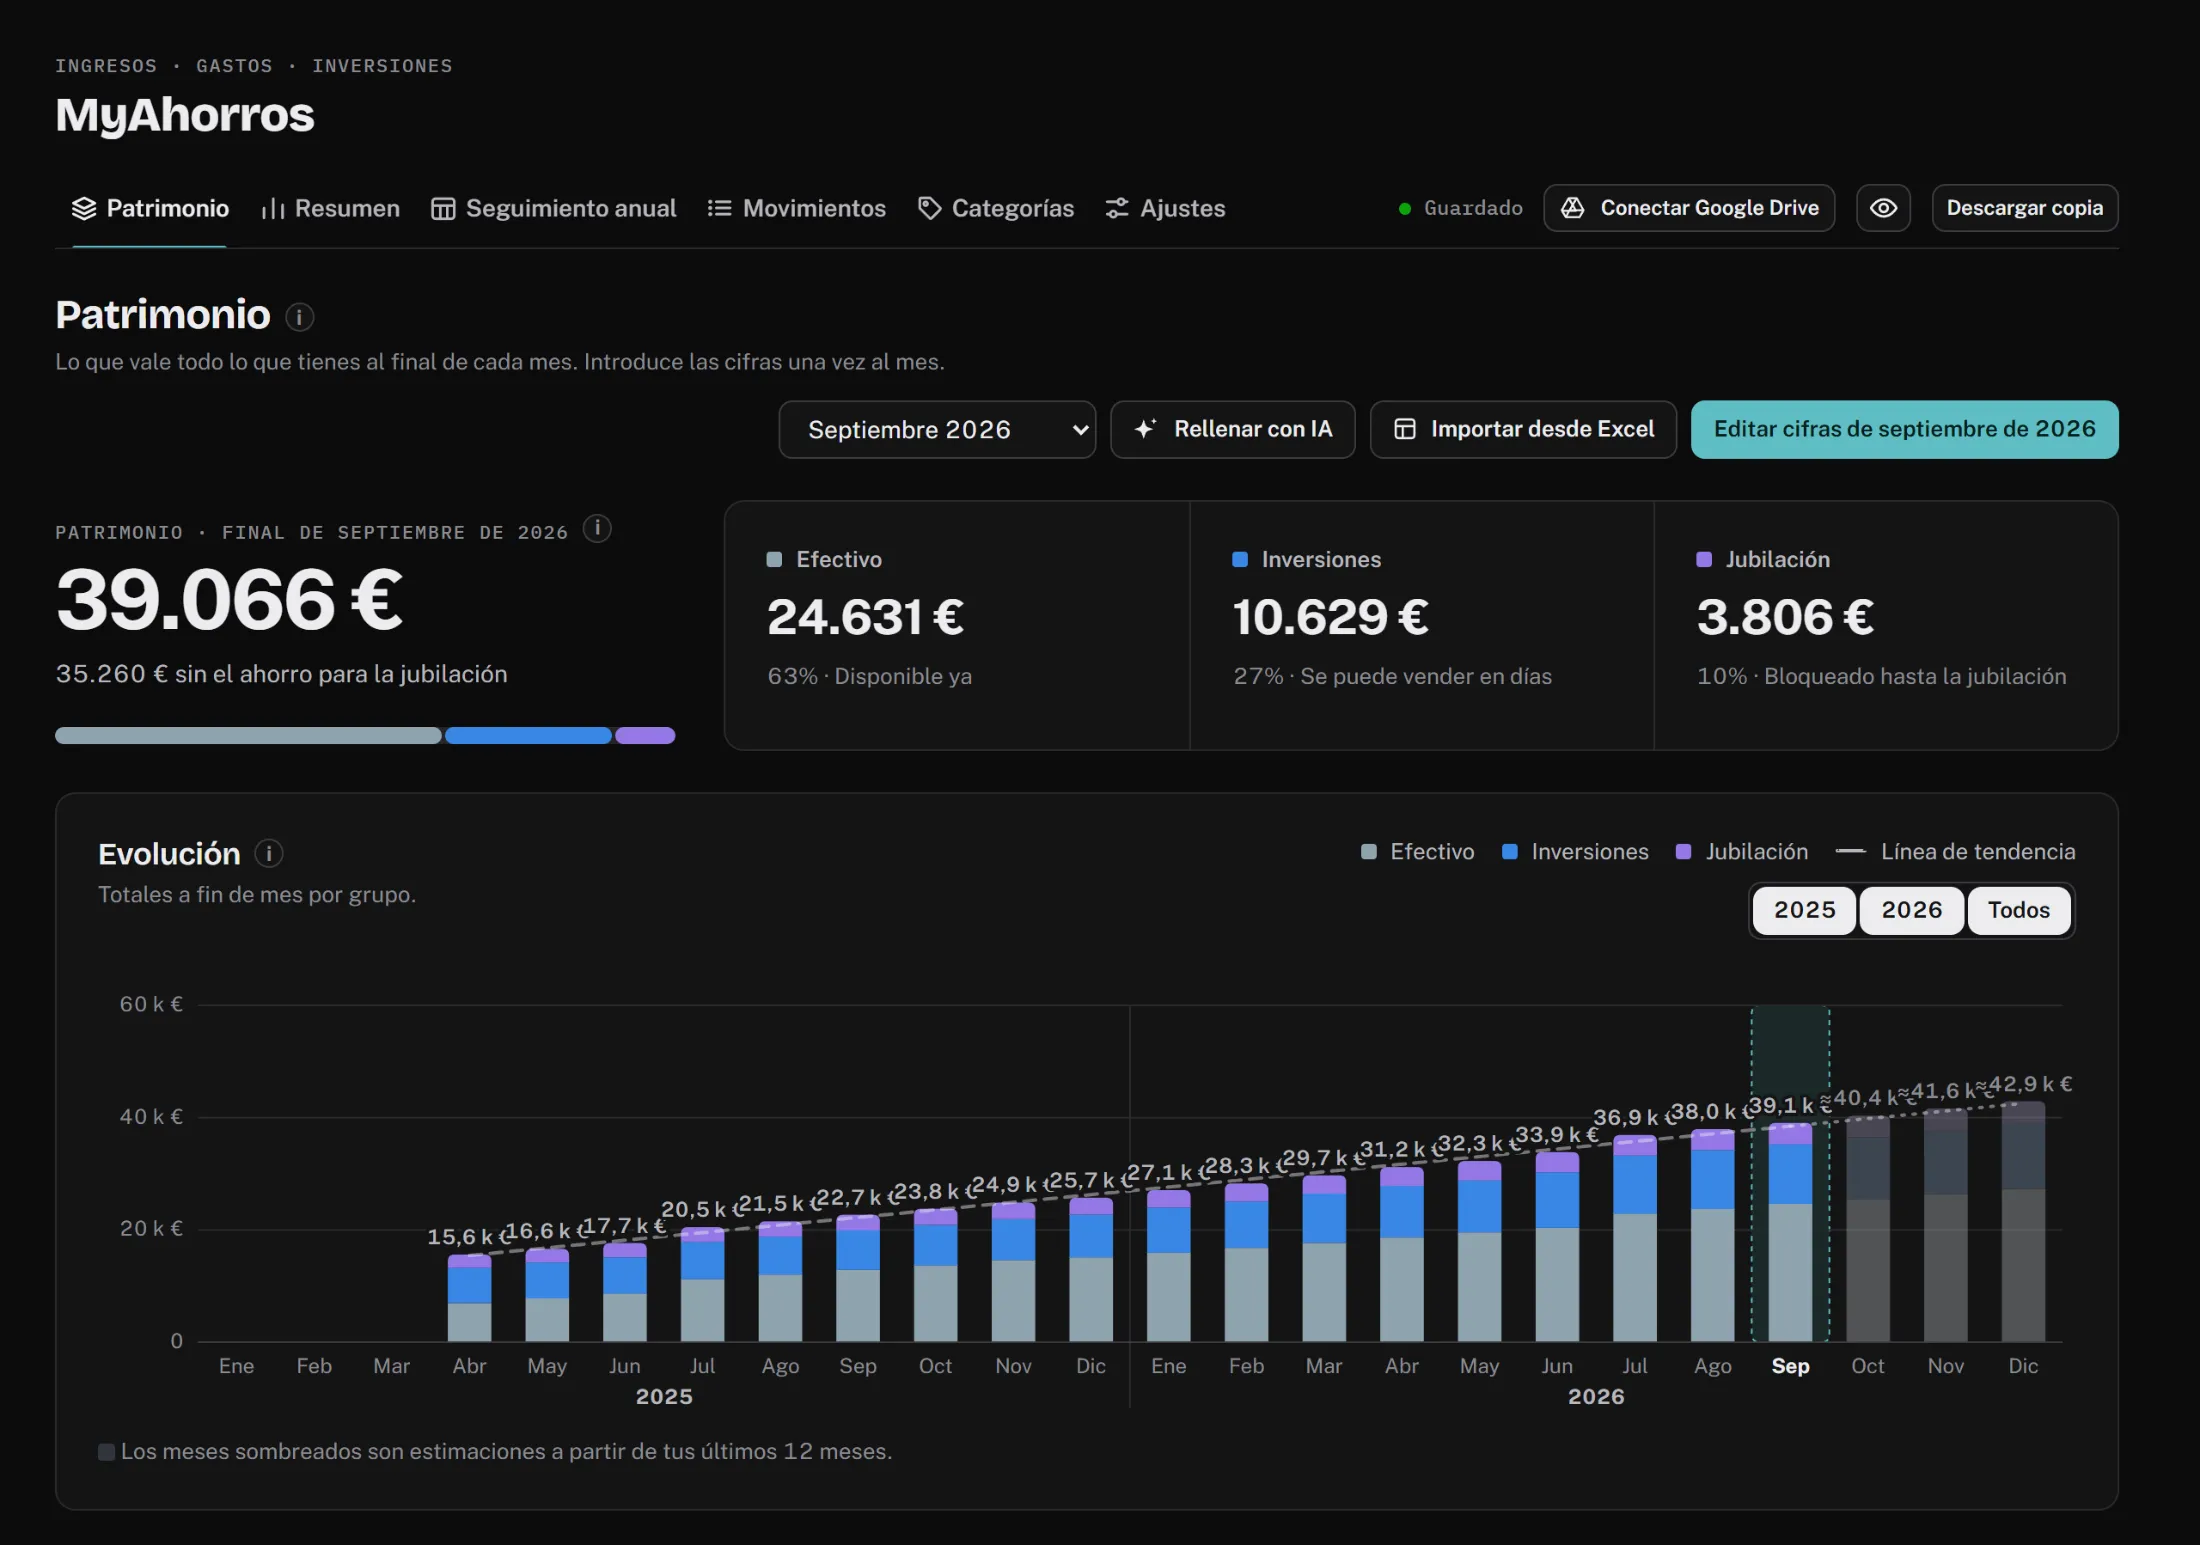
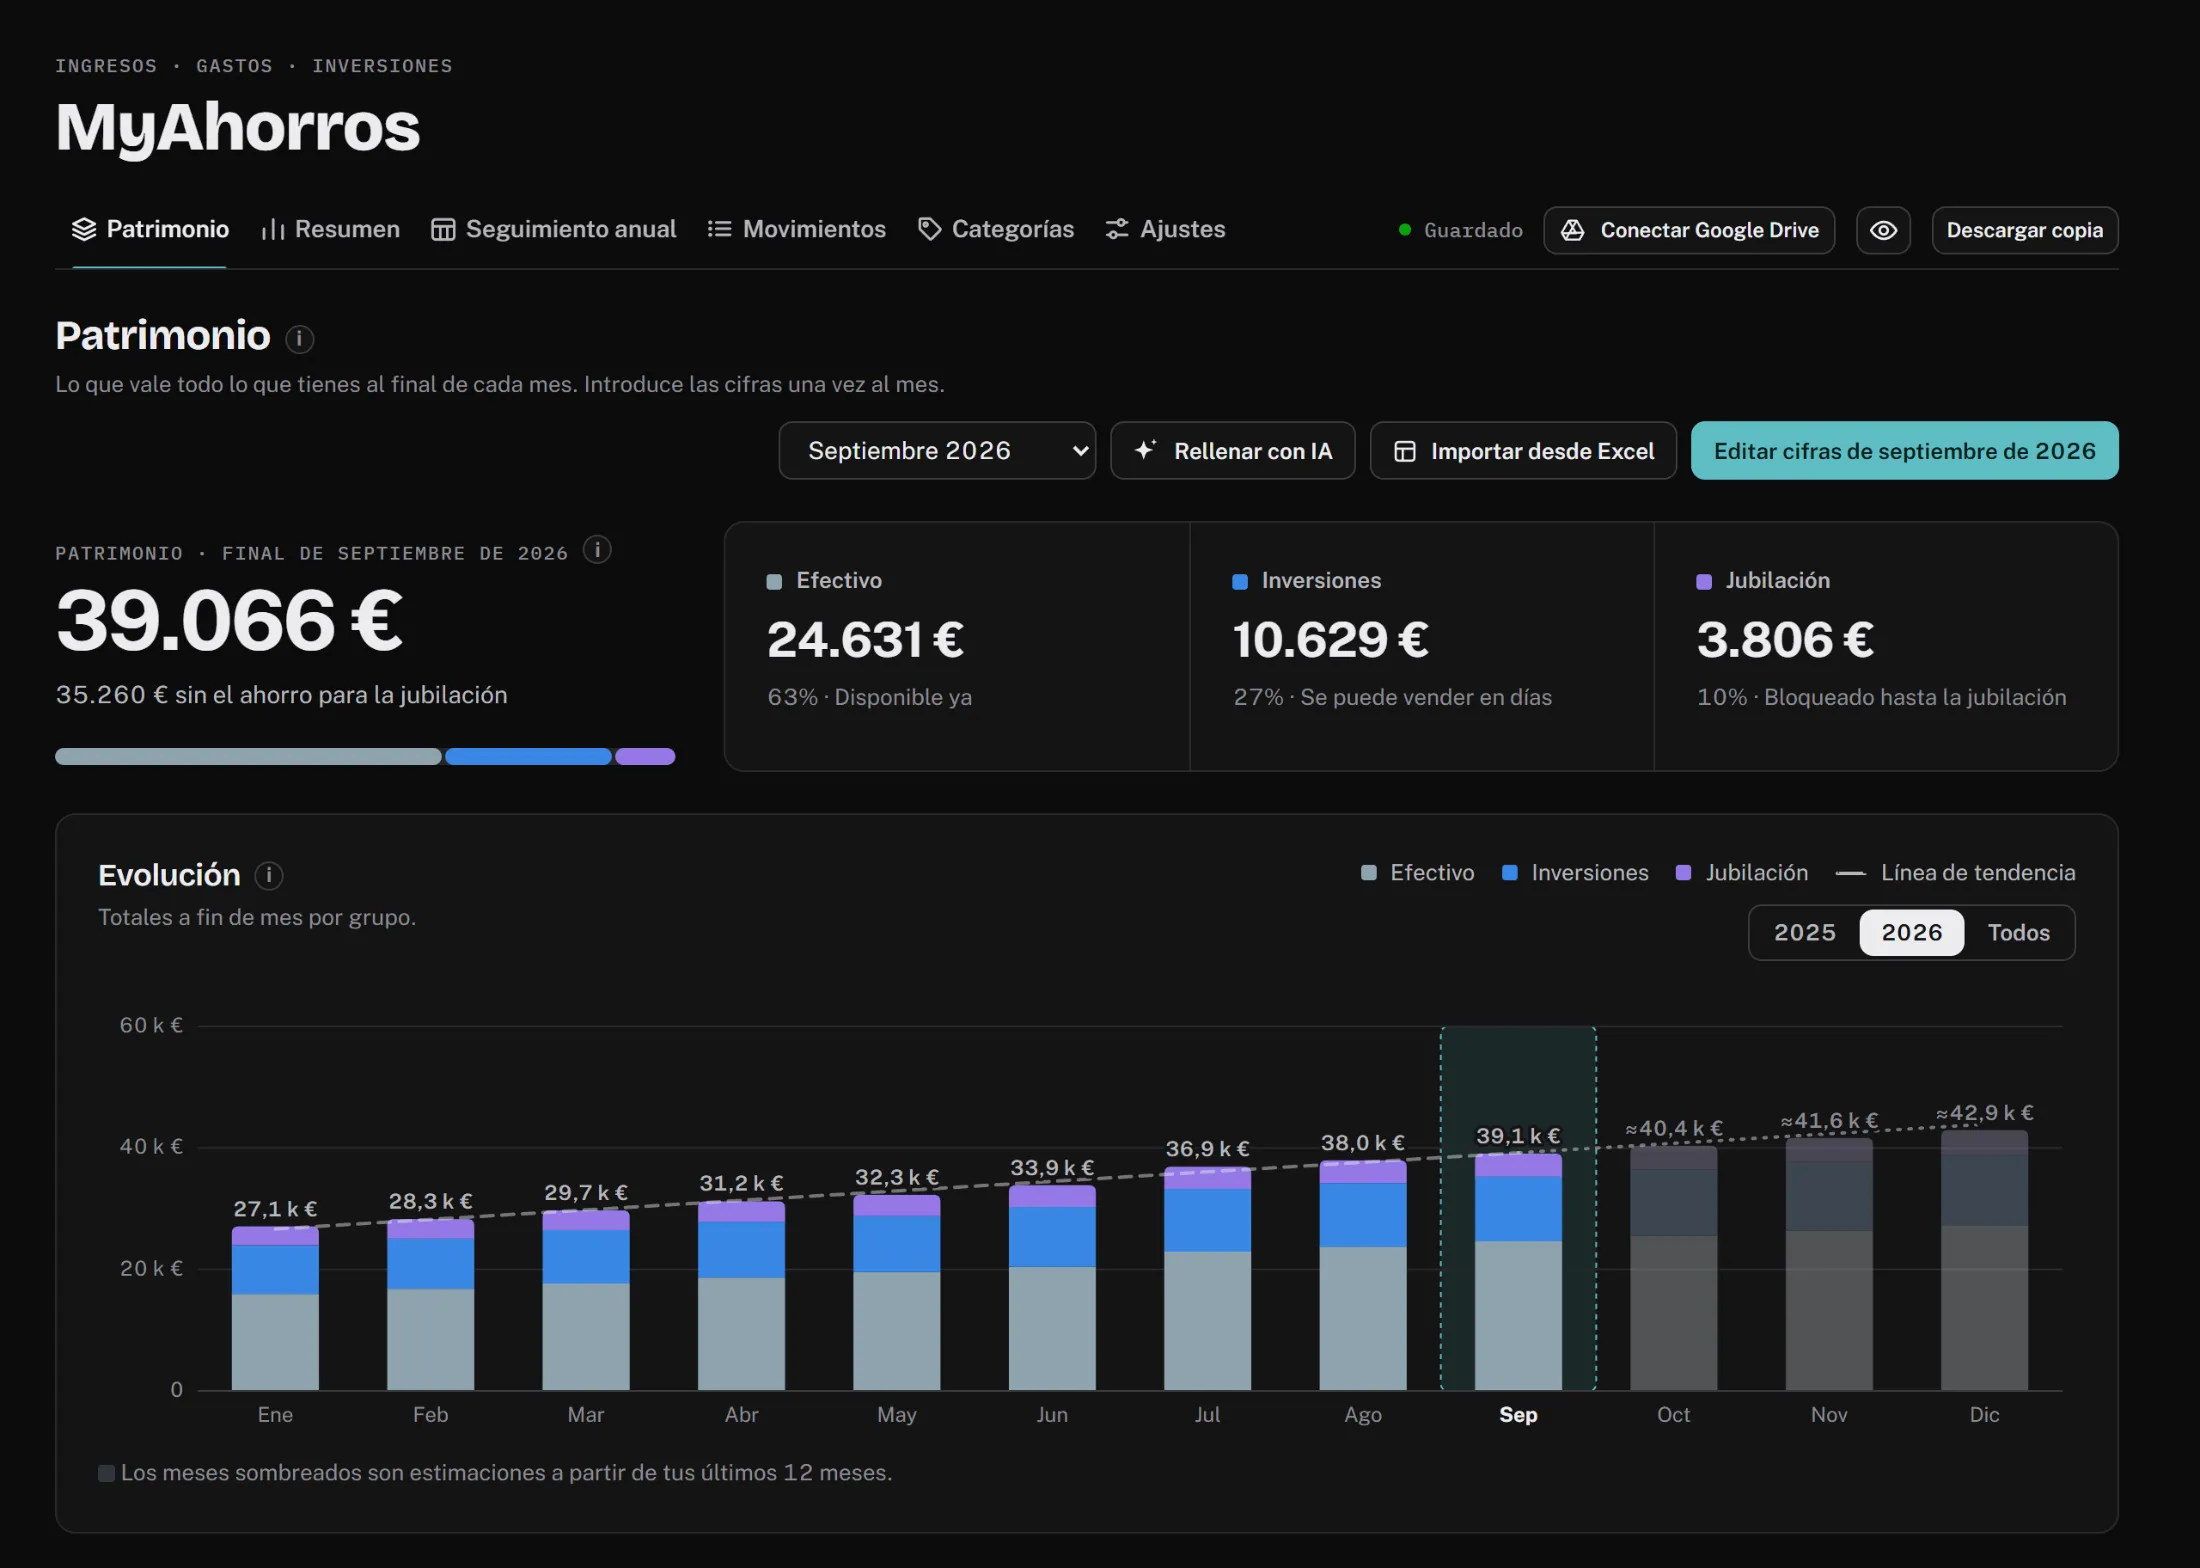
Landing: callouts stay about twice as long, more space between sections, one-year Net worth shot, SW 1.0.46
The hero scrolls over 420vh (was 250vh): the preview still rises in about the
same distance, then each callout stays fully visible for about 0.7 of a screen
of scrolling (was about 0.3), with shorter fades. Features, How it works and
the closing section get more room around them.
tools/landing-shot.js picked "All years" as the last year button, so the Net
worth shot showed two years squeezed together; it now picks the latest year
alone. Shots regenerated.

diff --git a/web.css b/web.css
@@ -88,14 +88,15 @@
 .wl-top{position:sticky;top:0;z-index:3;display:flex;align-items:center;justify-content:space-between;gap:12px;flex-wrap:wrap;padding:12px clamp(16px,4vw,48px);background:color-mix(in srgb,var(--bg,#f1f4f2) 88%,transparent);backdrop-filter:blur(8px);border-bottom:1px solid var(--line,#d8dfdc)}
 .wl-brand{font:800 18px/1 var(--f-display,system-ui,sans-serif);letter-spacing:-.01em}
 .wl-top-r{display:flex;align-items:center;gap:10px;flex-wrap:wrap}
-/* hero: a tall section (250vh) whose sticky stage plays one progress value --wl-p, 0 to 1, as it scrolls by.
-   0-.4: the preview rises and flattens while the headline fades; .4-1: the pages inside the frame scroll by.
+/* hero: a tall section (420vh) whose sticky stage plays one progress value --wl-p, 0 to 1, as it scrolls by.
+   0-.2: the preview rises and flattens while the headline fades; .2-1: the pages inside the frame scroll by and the
+   callouts take turns (each stays for most of a screen of scrolling).
    Scroll-driven animations set --wl-p here; other browsers get it from landing() in web-shim.js. */
 @property --wl-p{syntax:'<number>';inherits:true;initial-value:0}
 @keyframes wl-p{from{--wl-p:0}to{--wl-p:1}}
 .wl-hero{--head:69px;--peek:clamp(90px,16svh,170px);--fw:min(1280px,92vw);--ft:calc(var(--head) + 20px);--fh:calc(100svh - var(--ft) - 24px);
-  --a:clamp(0,var(--wl-p)/.4,1);--b:clamp(0,(var(--wl-p) - .4)/.6,1);
-  position:relative;height:250vh;margin-top:calc(-1*var(--head));text-align:center}
+  --a:clamp(0,var(--wl-p)/.2,1);--b:clamp(0,(var(--wl-p) - .2)/.8,1);
+  position:relative;height:420vh;margin-top:calc(-1*var(--head));text-align:center}
 @supports (animation-timeline:view()){.wl-hero{animation:wl-p linear both;animation-timeline:view();animation-range:contain 0% contain 100%}}
 .wl-stage{position:sticky;top:0;height:100svh;overflow-x:clip}
 .wl-hero-text{position:relative;z-index:1;box-sizing:border-box;height:calc(100svh - var(--peek));padding:calc(var(--head) + 16px) clamp(16px,4vw,48px) 24px;
@@ -123,15 +124,15 @@
 .wl-pages img{display:block;width:100%;height:auto}
 /* callouts beside the frame, each in for its own stretch of the scroll and drifting a little faster than the frame */
 .wl-calls{list-style:none;margin:0;padding:0}
-.wl-call{--in:clamp(0,(var(--wl-p) - var(--s))/.08,1);--out:clamp(0,(var(--e) - var(--wl-p))/.08,1);
+.wl-call{--in:clamp(0,(var(--wl-p) - var(--s))/.04,1);--out:clamp(0,(var(--e) - var(--wl-p))/.04,1);
   position:absolute;z-index:3;display:flex;align-items:center;gap:12px;max-width:260px;padding:12px 18px 12px 12px;border-radius:14px;text-align:left;
   background:var(--surface,#fcfdfc);border:1px solid color-mix(in srgb,var(--accent,#0d5c63) 35%,var(--line,#d8dfdc));box-shadow:0 18px 40px -16px rgb(0 0 0/.55);
   font:600 15px/1.3 var(--f-body,system-ui,sans-serif);
-  opacity:calc(var(--in)*var(--out));transform:translate(calc((1 - var(--in))*var(--dx)),calc((var(--wl-p) - var(--s))*-220px));will-change:opacity,transform}
+  opacity:calc(var(--in)*var(--out));transform:translate(calc((1 - var(--in))*var(--dx)),calc((var(--wl-p) - var(--s))*-160px));will-change:opacity,transform}
 .wl-call .wl-ico{flex:none}
-.wl-call.c1{--s:.16;--e:.44;--dx:-40px;top:40%;left:max(12px,calc(50% - var(--fw)/2 - 24px))}
-.wl-call.c2{--s:.42;--e:.7;--dx:40px;top:44%;right:max(12px,calc(50% - var(--fw)/2 - 24px))}
-.wl-call.c3{--s:.7;--e:1.2;--dx:-40px;top:58%;left:max(12px,calc(50% - var(--fw)/2 - 24px))}
+.wl-call.c1{--s:.14;--e:.42;--dx:-40px;top:40%;left:max(12px,calc(50% - var(--fw)/2 - 24px))}
+.wl-call.c2{--s:.43;--e:.71;--dx:40px;top:44%;right:max(12px,calc(50% - var(--fw)/2 - 24px))}
+.wl-call.c3{--s:.72;--e:1.2;--dx:-40px;top:58%;left:max(12px,calc(50% - var(--fw)/2 - 24px))}
 /* phones and reduced motion: no tilt, no sticky stage; headline, then the flat preview, then the callouts as a list */
 @media (max-width:767px),(prefers-reduced-motion:reduce){
   .wl-hero{--fw:calc(100% - 2*clamp(16px,4vw,48px));height:auto;margin-top:0;animation:none}
@@ -148,7 +149,7 @@
 }
 .web-landing main{padding:0}
 .wl-body{position:relative;isolation:isolate;max-width:calc(1280px + 2*clamp(16px,4vw,48px));margin:0 auto;padding:0 clamp(16px,4vw,48px)}
-.wl-feats{padding:clamp(48px,7vw,112px) 0 clamp(40px,6vw,64px);text-align:center}
+.wl-feats{padding:clamp(64px,8vw,128px) 0 clamp(56px,7vw,96px);text-align:center}
 .wl-feats h2,.wl-safe h2,.wl-how h2,.wl-end h2{margin:0 0 8px;font:700 clamp(24px,3.4vw,34px)/1.15 var(--f-display,system-ui,sans-serif);letter-spacing:-.015em}
 .wl-sub{margin:0 auto;max-width:52ch;color:var(--ink-2,#44554f)}
 .wl-grid{display:grid;grid-template-columns:repeat(4,minmax(0,1fr));gap:16px;margin-top:28px;text-align:left}
@@ -160,13 +161,13 @@
 .wl-ico.big{width:64px;height:64px;border-radius:18px}
 .wl-safe{display:grid;grid-template-columns:auto minmax(0,1fr);gap:22px;align-items:center;padding:clamp(22px,4vw,36px);border-radius:18px;background:linear-gradient(135deg,var(--accent-soft,#d9ebea),var(--surface,#fcfdfc));border:1px solid color-mix(in srgb,var(--accent,#0d5c63) 30%,transparent)}
 .wl-safe p{margin:0;max-width:70ch;color:var(--ink-2,#44554f)}
-.wl-how{padding:40px 0}
+.wl-how{padding:clamp(64px,8vw,112px) 0}
 .wl-how h2{text-align:center}
 .wl-how ol{list-style:none;margin:16px 0 0;padding:0;display:grid;grid-template-columns:repeat(3,minmax(0,1fr));gap:16px;counter-reset:s}
 .wl-how li{counter-increment:s;display:grid;align-content:start;gap:4px;padding:18px;border:1px solid var(--line,#d8dfdc);border-radius:12px;background:var(--surface,#fcfdfc)}
 .wl-how li::before{content:counter(s);display:grid;place-items:center;width:28px;height:28px;border-radius:50%;background:var(--accent,#0d5c63);color:var(--accent-ink,#fff);font-weight:700;font-size:14px}
 .wl-how li span{color:var(--ink-2,#44554f);font-size:14.5px}
-.wl-end{text-align:center;padding:48px 0 64px}
+.wl-end{text-align:center;padding:clamp(56px,7vw,96px) 0 clamp(72px,9vw,128px)}
 .wl-end p{margin:0 auto;max-width:48ch;color:var(--ink-2,#44554f)}
 .wl-foot{display:flex;justify-content:center;align-items:center;gap:8px 20px;flex-wrap:wrap;padding:24px;border-top:1px solid var(--line,#d8dfdc);font-size:13px;color:var(--muted,#5c6a65)}
 .wl-foot .wl-brand{font-size:15px;color:var(--ink,#13211f)}

diff --git a/sw.js b/sw.js
@@ -1,7 +1,7 @@
 /* MyAhorros: keeps the site's own files on the device so it opens offline.
    Only the site's files are cached; your data is never here (it lives in your folder, Drive or browser storage).
    The page itself is fetched fresh when online, so updates arrive on the next visit. */
-const VERSION='1.0.45-myahorros';
+const VERSION='1.0.46-myahorros';
 const CACHE='ybt-'+VERSION;
 const FILES=["./", "config.js", "fonts/bricolage-grotesque-latin-ext-opsz-normal.woff2", "fonts/bricolage-grotesque-latin-opsz-normal.woff2", "fonts/fonts.css", "fonts/ibm-plex-mono-latin-400-normal.woff2", "fonts/ibm-plex-mono-latin-500-normal.woff2", "fonts/ibm-plex-mono-latin-ext-400-normal.woff2", "fonts/ibm-plex-mono-latin-ext-500-normal.woff2", "fonts/public-sans-latin-ext-wght-normal.woff2", "fonts/public-sans-latin-wght-normal.woff2", "icons/apple-touch-icon.png", "icons/icon-192.png", "icons/icon-512.png", "icons/icon-maskable-512.png", "images/landing-networth-dark.webp", "images/landing-networth-light.webp", "images/landing-overview-dark.webp", "images/landing-overview-light.webp", "images/landing-yearly-dark.webp", "images/landing-yearly-light.webp", "images/landing-networth-dark-es.webp", "images/landing-networth-light-es.webp", "images/landing-overview-dark-es.webp", "images/landing-overview-light-es.webp", "images/landing-yearly-dark-es.webp", "images/landing-yearly-light-es.webp", "index.html", "js/models.js", "js/web-ai.js", "js/web-boot.js", "js/web-shim.js", "manifest.webmanifest", "privacy.html", "vendor/pdf.min.js", "vendor/pdf.worker.min.js", "vendor/xlsx.full.min.js", "web.css"];
 self.addEventListener('install',e=>{ e.waitUntil(caches.open(CACHE).then(c=>c.addAll(FILES)).then(()=>self.skipWaiting())); });

diff --git a/tools/landing-shot.js b/tools/landing-shot.js
@@ -66,8 +66,11 @@ const HIDE = { en: ['Monthly check', 'This month'], es: ['Revisión del mes', 'E
     await p.addStyleTag({ content: '#view .notice,.toast,.guide,.guide-bar,.web-bar,.web-foot{display:none!important}' });
     for (const s of SHOTS) {
       await p.click('#tab-' + s.tab);
-      /* the year buttons: show the latest year only (its figures, then the forecast) */
-      const ys = await p.$$('[data-action=nw-year][data-y]'), yl = ys[ys.length - 1]; if (yl && (await yl.getAttribute('aria-pressed')) !== 'true') await yl.click();
+      /* the year buttons: show the latest year only (its figures, then the forecast), not "All years" */
+      const yb = () => p.$$('[data-action=nw-year][data-y]:not([data-y=all])');
+      let ys = await yb(); const yl = ys[ys.length - 1];
+      if (yl && (await yl.getAttribute('aria-pressed')) !== 'true') await yl.click();
+      for (let hit = true; hit;) { hit = false; for (const b of (await yb()).slice(0, -1)) if ((await b.getAttribute('aria-pressed')) === 'true') { await b.click(); hit = true; break; } }
       await p.mouse.move(0, 0); await p.waitForTimeout(600);
       const clip = await p.evaluate(([s, lang, hide]) => {
         /* the demo stops in August, so the reminders about this month only add noise */

diff --git a/config.js b/config.js
@@ -3,5 +3,5 @@
    Leave it empty and the Google Drive option shows as not available; folders and browser storage still work. */
 window.YBT_CONFIG = {
   googleClientId: '416274493105-bhfq37fgg059vpq3akspvd6l83m2gsui.apps.googleusercontent.com',
-  version: '1.0.45'
+  version: '1.0.46'
 };
